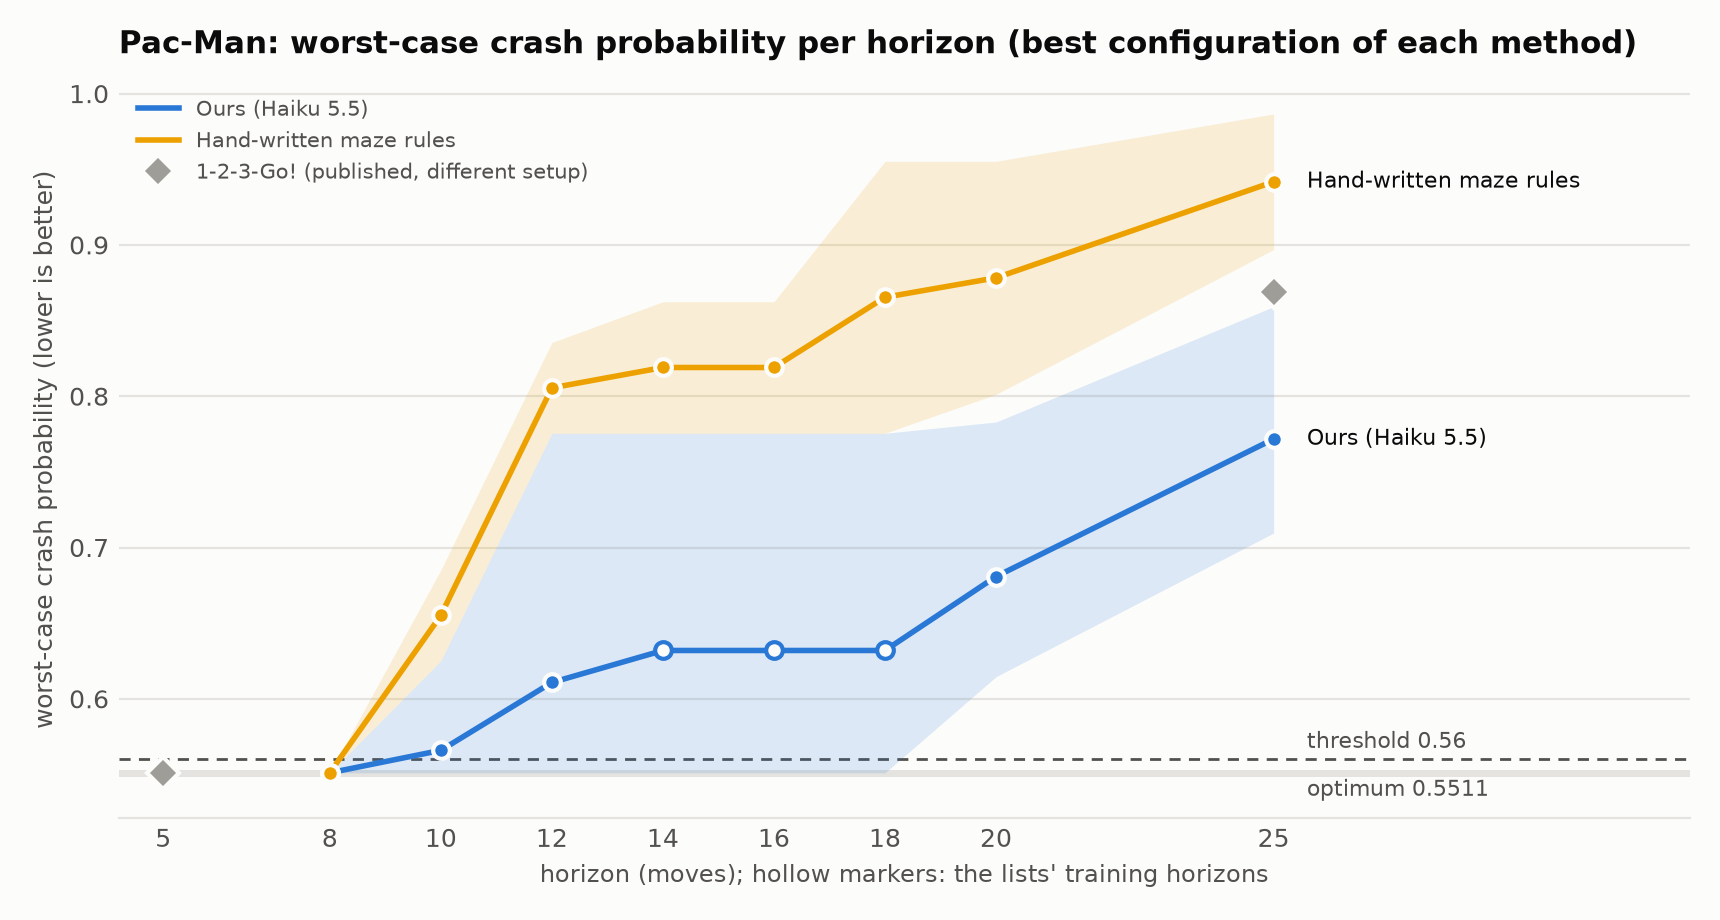
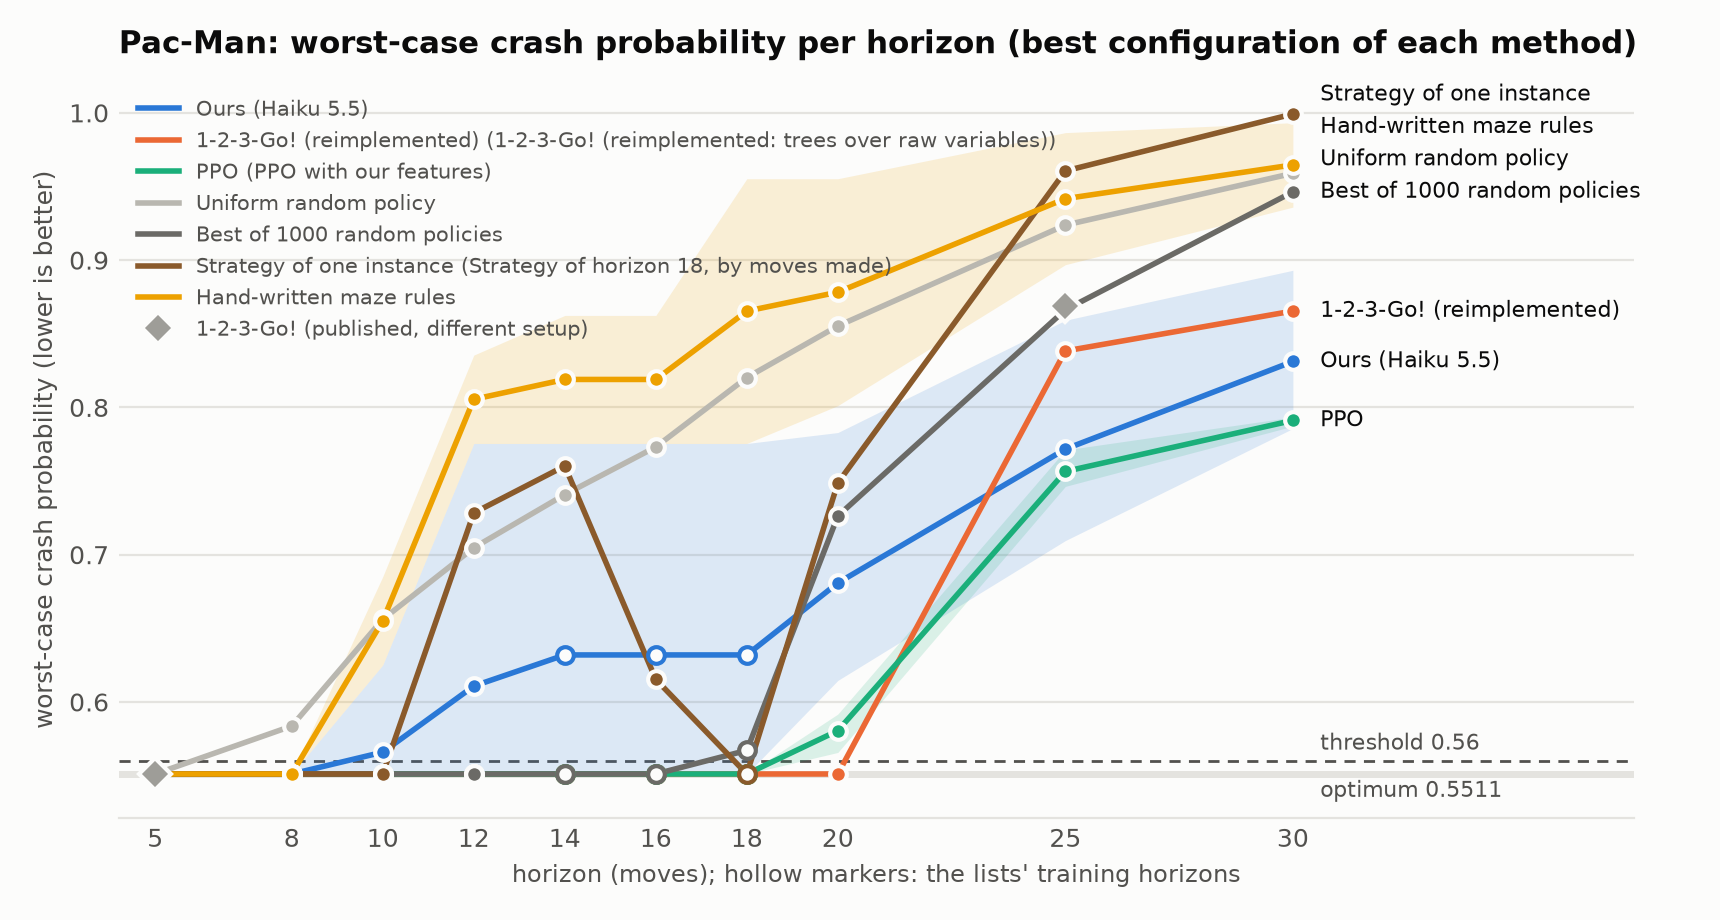
[plan 02] step 8: RQ1 regenerated with every Pac-Man baseline; core runs 4-5 on horizon 30
out/results/experiments/rq1_comparison/REPORT.md, rq1_pacman.png, rq1_pacman_horizon.png. Pac-Man, 6
held-out horizons (8, 10, 12, 20, 25, 30), certified per list (best configuration of each method):
1-2-3-Go! reimplemented (raw tree on 14-18) 4; PPO with our features 3; best of 1000 random 3;
ours (Haiku, 5 runs) 2.40 (1-3); horizon 18's strategy by moves made 2; maze rules 1; uniform 0.
Other configurations: PPO raw 3, tree trained on 5 2, tree over our features 2 (on 5: 0), by moves
left 0. Beyond 20 nothing certifies; at 25 and 30 PPO with our features is lowest (about 0.76, 0.79),
then ours (0.77, 0.83 mean).

Core runs 4 and 5 (added by plan 01) on horizon 30: 0.893 and 0.854 as written, 0.943 and 0.919 with
ties open. tests/test_experiments.py: Pac-Man's held-out targets are now 0, 1, 2, 6, 7, 9.
docs/experiments.md: Pac-Man up to horizon 30; simple.py is generic.

diff --git a/PRISM-Guided-Learning/tests/test_experiments.py b/PRISM-Guided-Learning/tests/test_experiments.py
@@ -183,4 +183,4 @@ def test_index_lists_every_cell_and_baseline():
 def test_held_out_leaves_out_training_targets():
     shared = base.benchmark_specs({"benchmarks": "rq2"})
     bench = {name: base.Benchmark(name=name, **spec) for name, spec in shared.items()}
-    assert len(base.held_out(bench["pacman"])) == 5 and len(base.held_out(bench["grids"])) == 8
+    assert base.held_out(bench["pacman"]) == [0, 1, 2, 6, 7, 9] and len(base.held_out(bench["grids"])) == 8

diff --git a/docs/experiments.md b/docs/experiments.md
@@ -5,7 +5,7 @@ The paper asks two kinds of question, and the code has one harness for each, sha
 - **RQ1, comparison** (`src/experiments/comparison.py`, `configs/experiments/rq1_comparison.yaml`): our best configuration per benchmark against each baseline's best. Its cells are the **core** runs (`out/results/core/`).
 - **RQ2, ablations** (`src/experiments/ablation.py`, `configs/experiments/rq2_*.yaml`): one factor at a time against a reference cell (the core configuration), on random grids, the gridworld families and Pac-Man (the `rq2` set in `configs/experiments/benchmarks.yaml`; cells that only make sense on gridworld say `only: [grids, families]`). Runs go to `out/results/ablations/`.
 
-RQ1 covers transfer with and without gridworld's shortest-path feature `closer` (the `grids_noclose` benchmark). Two further questions come from the same runs: cost (tokens and dollars per training set, in every report) and larger instances (grids up to 20x20 and Pac-Man horizon 25, below). Readability (rules against tree nodes and network weights) has no metric in the harness.
+RQ1 covers transfer with and without gridworld's shortest-path feature `closer` (the `grids_noclose` benchmark). Two further questions come from the same runs: cost (tokens and dollars per training set, in every report) and larger instances (grids up to 20x20 and Pac-Man horizon 30, below). Readability (rules against tree nodes and network weights) has no metric in the harness.
 
 ```bash
 python src/run_experiment.py configs/experiments/rq2_feedback.yaml                 # plan + report from what exists
@@ -38,7 +38,7 @@ Reports: `out/results/experiments/<experiment>/REPORT.md`, figures and `runs.csv
 The cells and `baselines` of `rq1_comparison.yaml`: ours with Haiku 5.5 and with Sonnet 5.5; 1-2-3-Go! reimplemented (trees over the raw state variables, `src/baselines/decision_tree.py`) and the same trees over our features; the search over the rule language (`src/baselines/feature_search.py`); PPO over our features and over a MiniGrid-style local view (`ppo.py`, the `ppo_features_*` and `ppo_view_*` configs; one method, two configurations); the hand-written template (`domains/gridworld/data/template_policy.py`); hand-written maze rules for Pac-Man; and on Pac-Man, the uniform random policy, the best of 1000 random deterministic policies and the optimal strategy of one instance applied to the others (`simple.py`). The per-instance optimum (`src/ceilings.py`) is the ceiling, not a transfer method. Every method's output is certified by PRISM in `transfer.py`'s CSV format.
 
 - **Trees** follow the paper: one reachability objective (every goal in order, nothing entered early, no collision; Pac-Man: the crash requirement), CART on the training instances' optimal actions, frozen, then certified. On Pac-Man they learn from horizon 5 (the paper's training instance) and from our training horizons 14-18, with every optimal action of every decision state (weight 1/k, states where every action is optimal left out).
-- **Any domain** (`explicit_mdp.py`): trees (`decision_tree.py`) and PPO (`ppo.py`) take `params.model: explicit`, and the Pac-Man-only methods above are built on it too. PRISM exports the instance's model, numpy computes optimal actions, policy values and simulation on it, and nothing in it is domain-specific, so a new domain (plan 08) gets these baselines from a config. A tree compiles exactly into rules, certified like any rule list. Policies with no compact rules (a network, a table, the uniform policy) are certified on the target's model restricted to the policy, written as PRISM explicit files and checked with `-importmodel`; this needs the bare model of the target, so on Pac-Man it stops at horizon 30.
+- **Any domain** (`explicit_mdp.py`): trees (`decision_tree.py`) and PPO (`ppo.py`) take `params.model: explicit`, and the uniform, random and one-instance baselines (`simple.py`) are built on it too. PRISM exports the instance's model, numpy computes optimal actions, policy values and simulation on it, and nothing in it is domain-specific, so a new domain (plan 08) gets these baselines from a config. A tree compiles exactly into rules, certified like any rule list. Policies with no compact rules (a network, a table, the uniform policy) are certified on the target's model restricted to the policy, written as PRISM explicit files and checked with `-importmodel`; this needs the bare model of the target, so on Pac-Man it stops at horizon 30.
 - **Baselines** (`src/baselines/`): one module per method, each a `Baseline` (`base.py`), run by `src/run_baseline.py configs/baselines/<name>.yaml` (keys in `configs/baselines/README.md`). Results: `out/results/baselines/<config stem>/transfer_<dataset stem>.csv`, the transfer CSV plus `method`. The search and the gridworld trees rank candidates with a numpy model of the gridworld (`gridworld_mdp.py`); PRISM certifies what they keep. `fit.json` next to the CSV records what a fit produced (a tree's size and its rules, one per leaf).
 - **Third-party code** lives in `third_party/<name>/` (not committed; `third_party/README.md` records source, version and license). Nothing in `core/` imports it.
 

diff --git a/PRISM-Guided-Learning/out/results/experiments/rq1_comparison/REPORT.md b/PRISM-Guided-Learning/out/results/experiments/rq1_comparison/REPORT.md
@@ -66,17 +66,27 @@ Per group (certified per rule list on its own group):
 
 ![Gridworld families (trained on three 6x6-8x8 members of a family, held out: 10x10-14x14 members)](rq1_families.png)
 
-## Pac-Man (trained on horizons 14, 16, 18; 5 held out: 8, 10, 12, 20, 25)
+## Pac-Man (trained on horizons 14, 16, 18; 6 held out: 8, 10, 12, 20, 25, 30)
 
-Targets 0-7: 5 held out (each list's own training instances are left out).
+Targets 0-7,9: 6 held out (each list's own training instances are left out).
 
 | method | configuration | figure | runs | certified | every target | best list | library | ties open | sets solved | $ / set |
 |---|---|---|---|---|---|---|---|---|---|---|
-| Ours (Haiku 5.5) | **Ours, Haiku 5.5** | ✓ | 5 | 2.40 (1.00–3.00) | 2.40 (1.00–3.00) | 2 (1–3) | 2.4 (1.0–3.0) | 1.50 (1.00–2.00) | 40% (0%–100%) | 0.006 (0.004–0.008) |
+| Ours (Haiku 5.5) | **Ours, Haiku 5.5** | ✓ | 5 | 2.40 (1.00–3.00) | 2.40 (1.00–3.00) | 2 (1–3) | 2.4 (1.0–3.0) | 2.40 (1.00–3.00) | 40% (0%–100%) | 0.006 (0.004–0.008) |
+| 1-2-3-Go! (reimplemented) | 1-2-3-Go! (reimplemented: trees over raw variables) | ✓ | – | 4.00 | 4.00 | 4 | 4.0 | 4.00 | – | – |
+| 1-2-3-Go! (reimplemented) | 1-2-3-Go! trained on horizon 5 (as the paper) |  | – | 2.00 | 2.00 | 2 | 2.0 | 2.00 | – | – |
+| 1-2-3-Go! (reimplemented) | 1-2-3-Go! with our features |  | – | 2.00 | 2.00 | 2 | 2.0 | 2.00 | – | – |
+| 1-2-3-Go! (reimplemented) | 1-2-3-Go! with our features, trained on horizon 5 |  | – | 0.00 | 0.00 | 0 | 0.0 | 0.00 | – | – |
+| PPO | PPO with our features | ✓ | – | 3.00 | 3.00 | 3 | 3.0 | 3.00 | – | – |
+| PPO | PPO over raw variables |  | – | 3.00 | 3.00 | 3 | 3.0 | 3.00 | – | – |
+| Uniform random policy | Uniform random policy | ✓ | – | 0.00 | 0.00 | 0 | 0.0 | 0.00 | – | – |
+| Best of 1000 random policies | Best of 1000 random policies | ✓ | – | 3.00 | 3.00 | 3 | 3.0 | 3.00 | – | – |
+| Strategy of one instance | Strategy of horizon 18, by moves made | ✓ | – | 2.00 | 2.00 | 2 | 2.0 | 2.00 | – | – |
+| Strategy of one instance | Strategy of horizon 18, by moves left |  | – | 0.00 | 0.00 | 0 | 0.0 | 0.00 | – | – |
 | Hand-written maze rules | Hand-written maze rules | ✓ | – | 1.00 | 1.00 | 1 | 1.0 | 1.00 | – | – |
 
-![Pac-Man (trained on horizons 14, 16, 18; 5 held out: 8, 10, 12, 20, 25)](rq1_pacman.png)
+![Pac-Man (trained on horizons 14, 16, 18; 6 held out: 8, 10, 12, 20, 25, 30)](rq1_pacman.png)
 
-Worst-case crash of each method's frozen lists (best configuration) per horizon, up to 30: longer horizons are Pac-Man's sealed test set and stay out until the test pass. Line: mean over the lists, band: their range; hollow markers: a list's own training horizons. 1-2-3-Go! (published, different setup): 0.5511 at 5, 0.869 at 25, 0.99998 at 200 (200 beyond the axis).
+Worst-case crash of each method's frozen lists (best configuration) per horizon, up to 30: horizons 50 and 100 are Pac-Man's sealed test set and stay out until the test pass (200: PRISM cannot build it). Line: mean over the lists, band: their range; hollow markers: a list's own training horizons. 1-2-3-Go! (published, different setup): 0.5511 at 5, 0.869 at 25, 0.99998 at 200 (200 beyond the axis).
 
 ![Worst-case crash probability per horizon](rq1_pacman_horizon.png)
